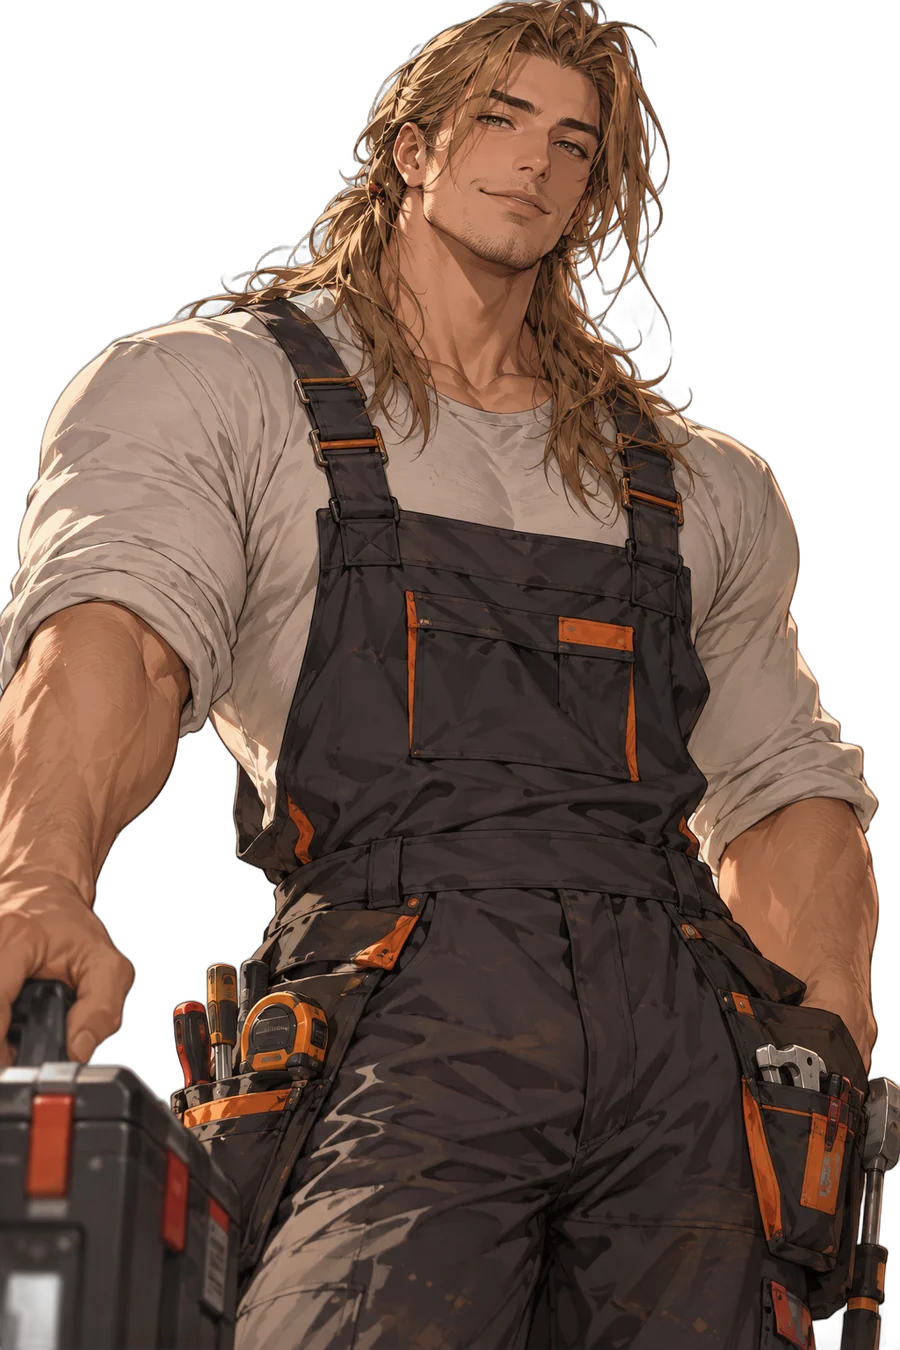
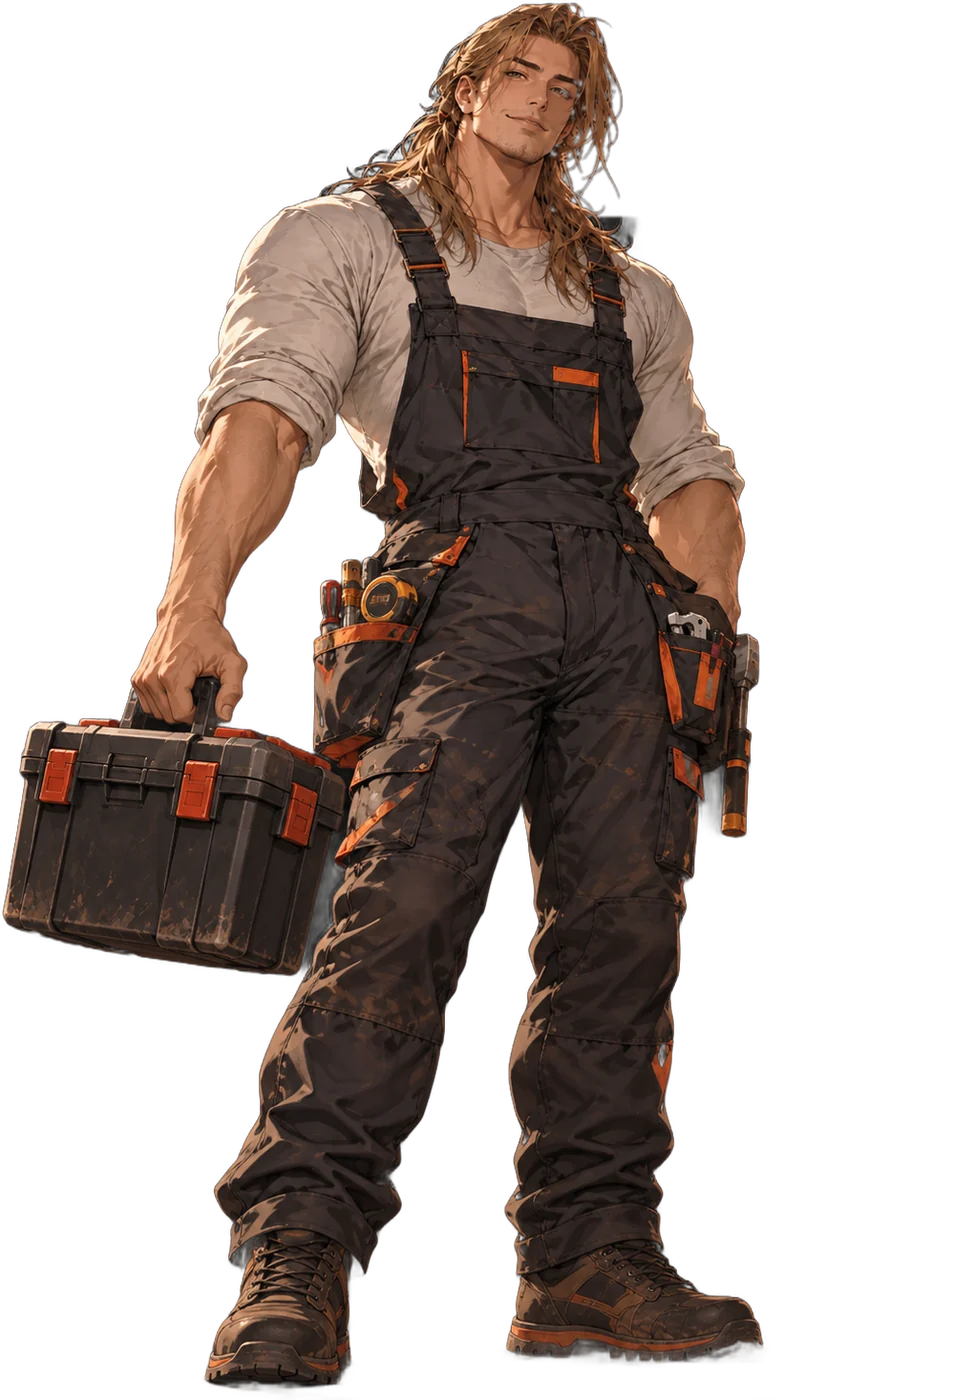
Хитаги-сан in full height; on phones the cover fills the first screen with the text over it and the first tiles peeking from below

diff --git a/internal/web/static/style.css b/internal/web/static/style.css
@@ -269,8 +269,13 @@ a.cta.button { display: flex; width: 100%; font-size: 18px; background: var(--ac
   object-position: right bottom; pointer-events: none; }
 @media (min-width: 721px) { .hero.with-cover > :not(.hero-cover) { max-width: 56%; } }
 @media (max-width: 720px) {
-  .hero.with-cover { min-height: 0; }
-  .hero-cover { top: 112px; bottom: auto; right: -12px; width: 82vw; height: calc(100vh - 112px); object-position: right top; opacity: .42; }
+  /* on a phone the cover fills the first screen: the figure on top, the text over its lower part, and the
+     first service tiles peeking from below; scrolling slides them over the figure */
+  .hero.with-cover { position: relative; display: flex; flex-direction: column; justify-content: flex-end;
+    min-height: calc(100svh - 112px - 92px); padding-bottom: 14px; }
+  .hero-cover { position: absolute; top: 0; right: -24px; bottom: auto; width: auto; height: 100%; max-width: none;
+    object-fit: contain; object-position: right top; opacity: 1; }
+  .hero.with-cover h1, .hero.with-cover .lead { text-shadow: 0 2px 18px var(--bg), 0 0 4px var(--bg); }
 }
 /* «make yourself the same»: every performer's site is also an invitation */
 .clone { display: flex; flex-wrap: wrap; align-items: baseline; gap: 4px 12px; margin: 8px 0 28px; padding: 18px 22px; border-radius: var(--radius);
